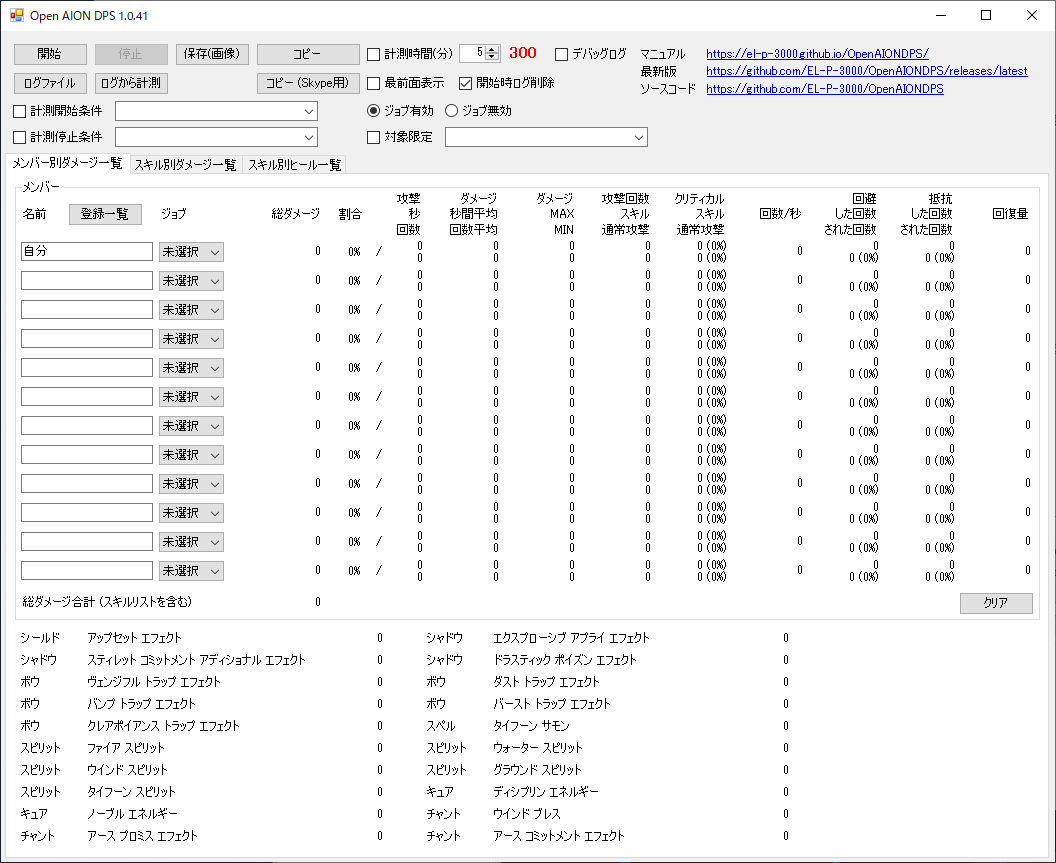
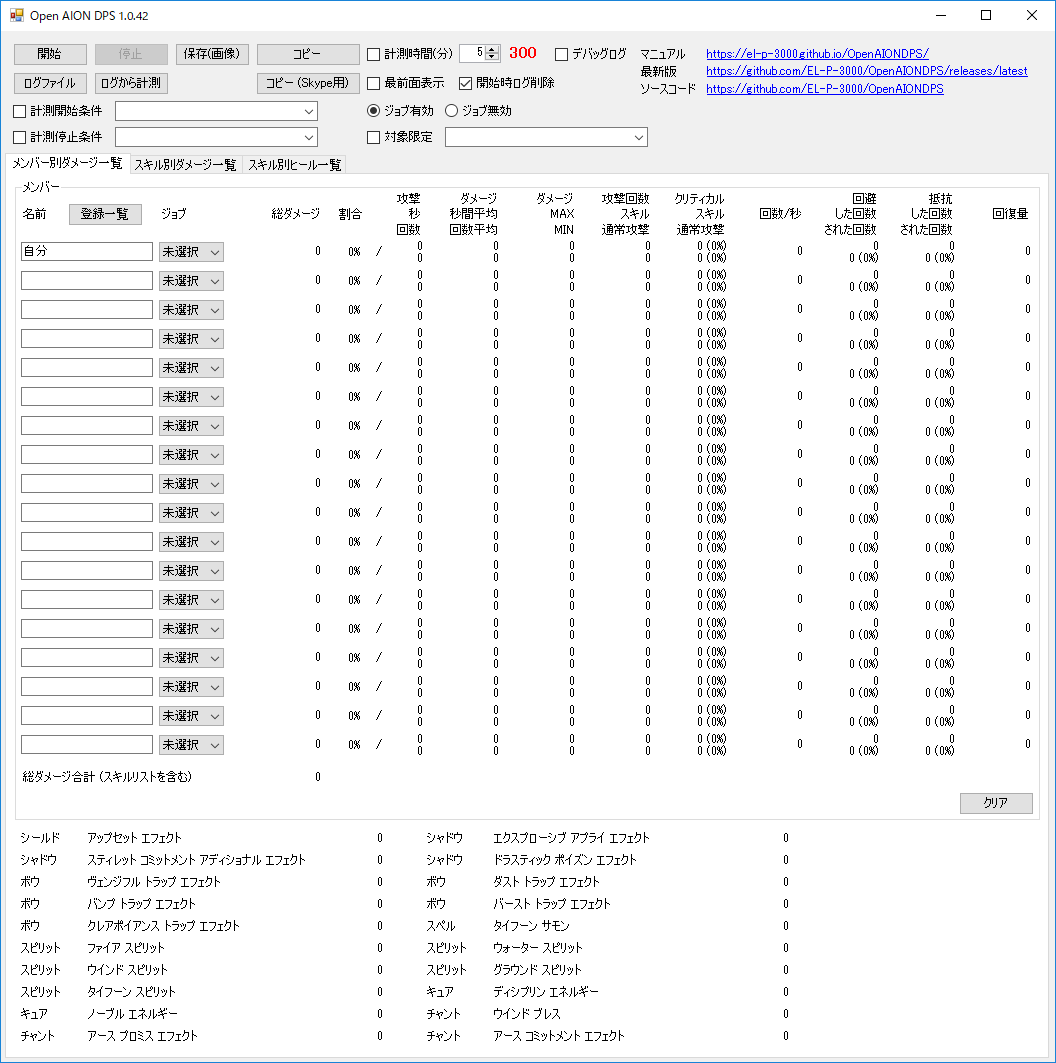
Version 1.0.42

diff --git a/OpenAIONDPS/MainForm.Designer.cs b/OpenAIONDPS/MainForm.Designer.cs
@@ -1264,7 +1264,7 @@
             this.KeyPreview = true;
             this.MaximumSize = new System.Drawing.Size(1070, 1070);
             this.Name = "MainForm";
-            this.Text = "Open AION DPS 1.0.41";
+            this.Text = "Open AION DPS 1.0.42";
             this.FormClosing += new System.Windows.Forms.FormClosingEventHandler(this.MainForm_FormClosing);
             this.Load += new System.EventHandler(this.MainForm_Load);
             this.MemberGroupBox.ResumeLayout(false);

diff --git a/OpenAIONDPS/Properties/AssemblyInfo.cs b/OpenAIONDPS/Properties/AssemblyInfo.cs
@@ -32,5 +32,5 @@ using System.Runtime.InteropServices;
 // すべての値を指定するか、次を使用してビルド番号とリビジョン番号を既定に設定できます
 // 既定値にすることができます:
 // [assembly: AssemblyVersion("1.0.*")]
-[assembly: AssemblyVersion("1.0.41.0")]
-[assembly: AssemblyFileVersion("1.0.41.0")]
+[assembly: AssemblyVersion("1.0.42.0")]
+[assembly: AssemblyFileVersion("1.0.42.0")]

diff --git a/docs/README.md b/docs/README.md
@@ -15,7 +15,7 @@ OS: Windows 10 Pro 1803 64bit
 **Version 1.0.31 には致命的なバグがあるため、1.0.32以降を利用してください。**  
 **Version 1.0.29 から各種設定はレジストリに保存するため、バージョンアップで設定がクリアされることはなくなりました。**  
 
-ツールのメイン画面 (Version 1.0.41)  
+ツールのメイン画面 (Version 1.0.42)  
 ![Main](images/OpenAIONDPS-Main.png)
 
 ## 開始
